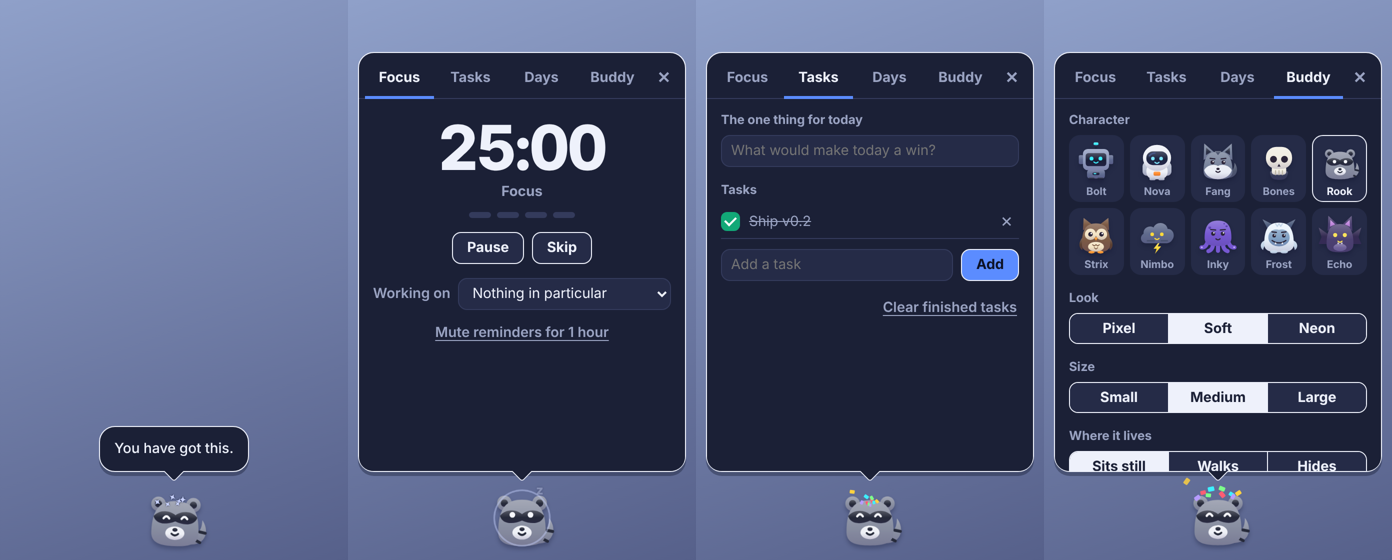
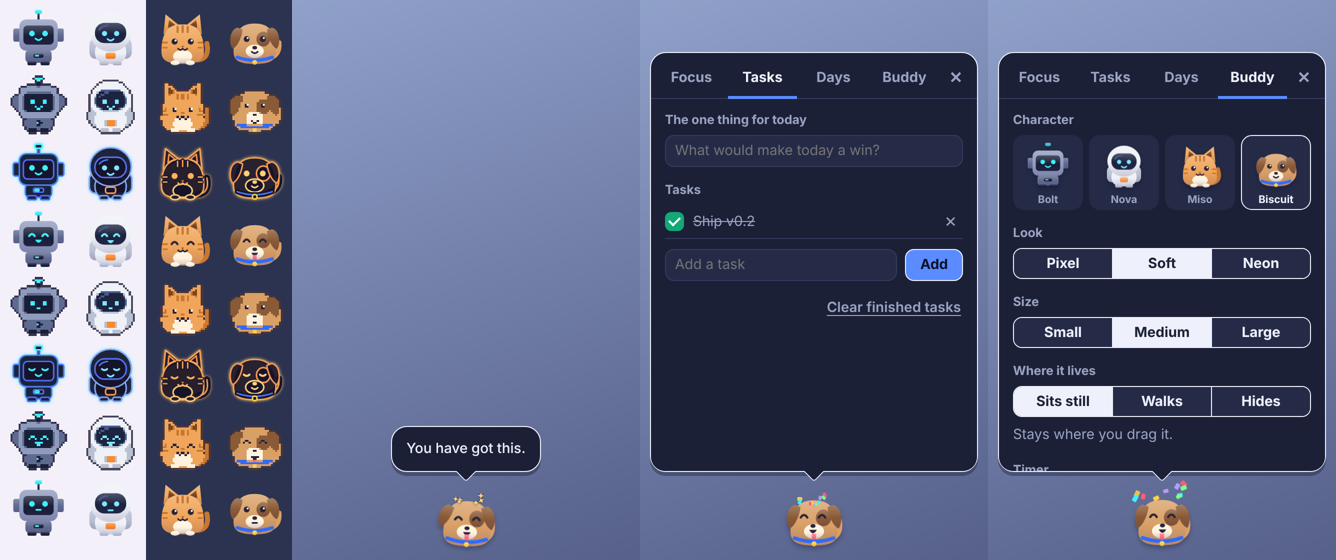
v0.3.0: Bolt, Nova, Miso the cat and Biscuit the dog, with moving parts and tricks
Claude-Session: https://claude.ai/code/session_01T8YRJT2CJDZMrmyAkM9yfG

diff --git a/src/characters.js b/src/characters.js
@@ -19,16 +19,17 @@
 
   const INK = '#2b2438', WHITE = '#ffffff', BLUSH = '#ff8fa6';
 
-  // shape = [path, fill, stroke, strokeWidth]; colours are palette keys or hex
+  // shape = [path, fill, stroke, strokeWidth, part]; colours are palette keys or hex.
+  // `part` (tail, earL, earR, flopL, flopR, lamp, tongue) makes that shape move on its own; see style.css.
   // optional `over` shapes are drawn on top of the face (teeth, visors...)
   const CHARS = [
     { id: 'bolt', name: 'Bolt', kind: 'robot', glow: '#3df0ff',
       pal: { a: '#8f9bbd', b: '#5f6a90', c: '#3df0ff', d: '#1a1f38' },
       face: { x: [25.5, 38.5], y: 27, r: 2.8, my: 32, mouth: 'smile', ink: 'c', brow: false },
       body: [
-        [R(31, 6, 2, 8), 'd'], [R(28.5, 3.5, 7, 4, 1.5), 'c'],
+        [R(31, 6, 2, 8), 'd'], [R(28.5, 3.5, 7, 4, 1.5), 'c', null, 0, 'lamp'],
         [R(7, 22, 7, 13, 2), 'b'], [R(50, 22, 7, 13, 2), 'b'],
-        [R(19, 43, 26, 13, 4), 'b'], [R(27, 47, 10, 4, 1.5), 'd'], [R(28.5, 48.2, 4, 1.6, 0.8), 'c'],
+        [R(19, 43, 26, 13, 4), 'b'], [R(27, 47, 10, 4, 1.5), 'd'], [R(28.5, 48.2, 4, 1.6, 0.8), 'c', null, 0, 'lamp'],
         [R(21, 54.5, 9, 4, 1.5), 'd'], [R(34, 54.5, 9, 4, 1.5), 'd'],
         [R(13, 13, 38, 31, 7), 'a'], [R(17, 19, 30, 19, 4), 'd'],
       ] },
@@ -38,98 +39,38 @@
       body: [
         [R(11, 32, 42, 20, 6), 'b'],
         [D(32, 34, 15.5, 57), 'a'],
-        [R(27, 46, 10, 6, 2), 'c'],
+        [R(27, 46, 10, 6, 2), 'c', null, 0, 'lamp'],
         [R(21, 54.5, 9, 4, 2), 'b'], [R(34, 54.5, 9, 4, 2), 'b'],
         [E(32, 26, 20.5, 19), 'a'],
         [R(16.5, 16.5, 31, 20, 9.5), 'd'],
         ['M21,23q2.5,-3.5 8,-4', null, 'f', 2],
       ] },
-    { id: 'fang', name: 'Fang', kind: 'wolf', glow: '#9fc4ff',
-      pal: { a: '#76819a', b: '#4d566e', d: '#2c3145', w: '#e8ecf4' },
-      face: { x: [24, 40], y: 32.5, r: 2.8, my: 45.5, mouth: 'smile', nose: 42 },
+    { id: 'miso', name: 'Miso', kind: 'cat', glow: '#ffb45c',
+      pal: { a: '#f0a55a', b: '#c9772f', d: '#7a4520', w: '#fff3df' },
+      face: { x: [24, 40], y: 35, r: 3, my: 42, mouth: 'cat', brow: false },
       body: [
-        ['M46,55C60,55 63,42 56,33C56,43 52,46 45,47Z', 'b'],
-        ['M11,29L12,5L29,20Z', 'a'], ['M53,29L52,5L35,20Z', 'a'],
-        ['M14.5,22L14.8,11L22,17.5Z', 'd'], ['M49.5,22L49.2,11L42,17.5Z', 'd'],
+        ['M47,53q12,-1 9,-16', null, 'b', 5, 'tail'],
+        ['M13,28L15,8L30,20Z', 'a', null, 0, 'earL'], ['M51,28L49,8L34,20Z', 'a', null, 0, 'earR'],
+        ['M17.5,21.5L18.5,13.5L24.5,18.5Z', 'd', null, 0, 'earL'], ['M46.5,21.5L45.5,13.5L39.5,18.5Z', 'd', null, 0, 'earR'],
+        [D(32, 18, 21, 57), 'a'],
+        ['M27,20.5v5M32,19.5v6M37,20.5v5', null, 'b', 2.2],
+        ['M12.5,36h4M12.8,41h3.6M51.5,36h-4M51.2,41h-3.6', null, 'b', 1.8],
+        [E(32, 49.5, 9.5, 6.5), 'w'],
+        [E(24.5, 56, 4.5, 2.4), 'w'], [E(39.5, 56, 4.5, 2.4), 'w'],
+      ],
+      over: [['M30.6,39.2h2.8l-1.4,1.8Z', 'd']] },
+    { id: 'biscuit', name: 'Biscuit', kind: 'dog', glow: '#ffd27a',
+      pal: { a: '#d9a066', b: '#8a5a36', c: '#2f6bff', e: '#ffd23f', w: '#fff3df', t: '#ff6b81' },
+      face: { x: [24, 40], y: 32.5, r: 2.9, my: 45, mouth: 'smile', nose: 41, brow: false },
+      body: [
+        ['M47,51q10,-3 9,-15', null, 'a', 5, 'tail'],
         [D(32, 17, 21, 57), 'a'],
-        ['M32,22L27,16h10Z', 'b'],
-        ['M32,38C26,34 15,37 12,44C15,54 25,57 32,57C39,57 49,54 52,44C49,37 38,34 32,38Z', 'w'],
-      ] },
-    { id: 'bones', name: 'Bones', kind: 'skull', glow: '#d8fff2',
-      pal: { a: '#f1ede2', b: '#353a58', d: '#b9b3a2' },
-      face: { x: [24, 40], y: 28, r: 5, my: 40, mouth: 'none', hl: false, brow: false },
-      body: [
-        [D(32, 44, 13, 58), 'b'],
-        [R(21.5, 38, 21, 12.5, 4), 'a'],
-        [R(13, 10, 38, 32, 15), 'a'],
-        ['M27,44.5v6M32,44.5v6M37,44.5v6', null, 'd', 1.5],
+        [E(40.5, 32.5, 6.8, 7.4), 'b'],
+        [E(32, 44.5, 9, 6.5), 'w'],
+        ['M14.6,50.5Q32,56.5 49.4,50.5', null, 'c', 3.2], [E(32, 55.6, 2.3), 'e'],
+        ['M15,21C7,23 6,36 10,42C15,40 19,31 20,23Z', 'b', null, 0, 'flopL'], ['M49,21C57,23 58,36 54,42C49,40 45,31 44,23Z', 'b', null, 0, 'flopR'],
       ],
-      over: [['M32,34.5l-2.3,4.2h4.6Z', 'ink']] },
-    { id: 'rook', name: 'Rook', kind: 'raccoon', glow: '#c8d2ff',
-      pal: { a: '#8a90a2', b: '#646a7e', d: '#262a3a', w: '#eef0f6', e: '#f6f7fb' },
-      face: { x: [24, 40], y: 31.5, r: 2.5, my: 46, mouth: 'smile', nose: 42.5, ink: 'e', brow: false },
-      body: [
-        ['M46,55C60,55 63,42 56,33C56,43 52,46 45,47Z', 'a'], ['M49.5,50.5l5,2.5M54,43.5l5,1', null, 'd', 2.6],
-        [E(16.5, 20, 6.5), 'a'], [E(47.5, 20, 6.5), 'a'], [E(16.5, 20, 3.2), 'd'], [E(47.5, 20, 3.2), 'd'],
-        [D(32, 17, 21, 57), 'a'],
-        ['M12.5,31C18,24.5 27,25.5 32,29.5C37,25.5 46,24.5 51.5,31C49,38.5 40,38.5 32,35C24,38.5 15,38.5 12.5,31Z', 'd'],
-        [E(32, 45.5, 8.5, 6), 'w'],
-      ],
-      over: [[E(32, 42.5, 2.3, 1.7), 'd'], ['M29,46q3,3 6,0', null, 'd', 1.7]] },
-    { id: 'strix', name: 'Strix', kind: 'owl', glow: '#ffb45c',
-      pal: { a: '#7d5b45', b: '#5a3f30', c: '#ff9a2e', w: '#f4e4c4' },
-      face: { x: [24, 40], y: 31, r: 3.3, my: 40, mouth: 'none', brow: false },
-      body: [
-        ['M12,36C6,43 7,51 12,54C13,47 15,42 17,39Z', 'b'], ['M52,36C58,43 57,51 52,54C51,47 49,42 47,39Z', 'b'],
-        ['M13,25L14,7L28,18Z', 'a'], ['M51,25L50,7L36,18Z', 'a'],
-        [D(32, 15, 20.5, 57), 'a'],
-        [E(32, 49, 11.5, 7), 'w'], ['M27,46l2.5,2l2.5,-2l2.5,2l2.5,-2M29.5,50.5l2.5,2l2.5,-2', null, 'a', 1.2],
-        [E(24, 31, 8.2), 'w'], [E(40, 31, 8.2), 'w'],
-        [E(25.5, 57, 4.5, 2), 'c'], [E(38.5, 57, 4.5, 2), 'c'],
-      ],
-      over: [['M29.3,35.5h5.4l-2.7,5Z', 'c']] },
-    { id: 'nimbo', name: 'Nimbo', kind: 'storm cloud', glow: '#ffe45c', float: true,
-      pal: { a: '#5f6a8c', b: '#47506e', c: '#ffd93b' },
-      face: { x: [25, 39], y: 31, r: 2.6, my: 37, mouth: 'smile', ink: 'c', brow: false },
-      body: [
-        ['M34,43l-7,9h4.5l-2.5,7.5l9,-11h-5l3,-5.5Z', 'c'],
-        ['M16,44C8,44 6,34 12.5,30C11.5,22 20.5,17 27,21C31,11.5 45.5,12.5 47.5,23C55.5,23 59.5,33 53.5,40C51.5,43 48.5,44 45,44Z', 'a'],
-        ['M18,40.5h10M38,40.5h9', null, 'b', 2],
-      ] },
-    { id: 'inky', name: 'Inky', kind: 'octopus', glow: '#b79bff',
-      pal: { a: '#7658d1', b: '#5a3fb0', w: '#c9b8ff' },
-      face: { x: [25, 39], y: 30, r: 3, my: 37.5, mouth: 'smile' },
-      body: [
-        ['M17,42q-3,9 -9,8', null, 'a', 6], ['M47,42q3,9 9,8', null, 'a', 6],
-        ['M25,45q-1,9 -7,10.5', null, 'a', 6], ['M39,45q1,9 7,10.5', null, 'a', 6],
-        ['M32,46v9', null, 'a', 6],
-        [D(32, 11, 19.5, 48), 'a'],
-        [E(20, 21, 2), 'b'], [E(44.5, 19, 1.6), 'b'], [E(41, 15.5, 1.1), 'b'],
-        [E(8.5, 50, 1.3), 'w'], [E(55.5, 50, 1.3), 'w'],
-      ] },
-    { id: 'frost', name: 'Frost', kind: 'yeti', glow: '#9fe3ff',
-      pal: { a: '#e9f2fb', b: '#c3d5e8', f: '#7f9fc2', h: '#51607f' },
-      face: { x: [25, 39], y: 33, r: 2.6, my: 41, mouth: 'wide' },
-      body: [
-        ['M16,24L8,9L24,17Z', 'h'], ['M48,24L56,9L40,17Z', 'h'],
-        ['M11,40C4,43 4,51 9,54C10,48 12,46 15,44Z', 'b'], ['M53,40C60,43 60,51 55,54C54,48 52,46 49,44Z', 'b'],
-        [D(32, 14, 21.5, 57), 'a'],
-        ['M32,24.5C24,22 16.5,27 16.5,35.5C16.5,44 24,48.5 32,48.5C40,48.5 47.5,44 47.5,35.5C47.5,27 40,22 32,24.5Z', 'f'],
-        ['M27,15.5l2.5,4l2.5,-4l2.5,4l2.5,-4', null, 'b', 1.6],
-        [E(24.5, 56.5, 5.5, 2.3), 'b'], [E(39.5, 56.5, 5.5, 2.3), 'b'],
-      ],
-      over: [['M25.5,45.4l1.6,-3.2l1.6,3.2Z', 'white'], ['M35.3,45.4l1.6,-3.2l1.6,3.2Z', 'white']] },
-    { id: 'echo', name: 'Echo', kind: 'bat', glow: '#d59bff', float: true,
-      pal: { a: '#4b4070', b: '#342b52', c: '#c58be0', w: '#6f629a', e: '#ffe45c' },
-      face: { x: [25, 39], y: 32, r: 3, my: 41, mouth: 'smile', ink: 'e', brow: false },
-      body: [
-        ['M15,31L1,21L5,35L1,45L15,45Z', 'b'], ['M49,31L63,21L59,35L63,45L49,45Z', 'b'],
-        ['M14,26L15,4L30,18Z', 'a'], ['M50,26L49,4L34,18Z', 'a'],
-        ['M17.5,20L18,10L25,16.5Z', 'c'], ['M46.5,20L46,10L39,16.5Z', 'c'],
-        [D(32, 16, 19.5, 57), 'a'],
-        [E(32, 50, 9.5, 5.5), 'w'],
-      ],
-      over: [['M28,43.3l1.3,2.6l1.3,-2.6Z', 'white'], ['M33.4,43.3l1.3,2.6l1.3,-2.6Z', 'white']] },
+      over: [['M30,46.6h4v3.2a2,2 0 0 1 -4,0Z', 't', null, 0, 'tongue']] },
   ];
 
   // ---- face: drawn by the engine so every figurine shares the same expressions
@@ -174,8 +115,8 @@
   }
 
   function shapesFor(ch, expr) {
-    const body = ch.body.map(([d, fill, stroke, w]) => ({ d, fill, stroke, w }));
-    const over = (ch.over || []).map(([d, fill, stroke, w]) => ({ d, fill, stroke, w, over: true }));
+    const body = ch.body.map(([d, fill, stroke, w, part]) => ({ d, fill, stroke, w, part }));
+    const over = (ch.over || []).map(([d, fill, stroke, w, part]) => ({ d, fill, stroke, w, part, over: true }));
     return body.concat(faceShapes(ch, expr), over);
   }
 
@@ -202,22 +143,24 @@
     const seen = new Set();
     for (const s of shapes) {
       if (!!s.face !== inFace) { body += s.face ? '<g class="f">' : '</g>'; inFace = !!s.face; }
+      let piece = '';
+      const flush = () => { body += s.part ? piece.replaceAll('<path ', `<path class="pt-${s.part}" `) : piece; };
       const fill = col(ch, s.fill), stroke = col(ch, s.stroke);
       if (look === 'neon') {
         if (s.hl || s.soft) continue;
         if (s.face) {
           const c = ch.glow;
-          body += fill
+          piece += fill
             ? `<path d="${s.d}" fill="${c}"/>`
             : `<path d="${s.d}" fill="none" stroke="${c}" stroke-width="${s.w}" stroke-linecap="round" stroke-linejoin="round"/>`;
         } else if (fill && s.over) {
-          body += `<path d="${s.d}" fill="${neonize(fill, ch.glow)}"/>`;
+          piece += `<path d="${s.d}" fill="${neonize(fill, ch.glow)}"/>`;
         } else if (fill) {
-          body += `<path d="${s.d}" fill="#17142a" fill-opacity=".92" stroke="${neonize(fill, ch.glow)}" stroke-width="1.5" stroke-linejoin="round"/>`;
+          piece += `<path d="${s.d}" fill="#17142a" fill-opacity=".92" stroke="${neonize(fill, ch.glow)}" stroke-width="1.5" stroke-linejoin="round"/>`;
         } else {
-          body += `<path d="${s.d}" fill="none" stroke="#17142a" stroke-width="${s.w + 1.6}" stroke-linecap="round"/><path d="${s.d}" fill="none" stroke="${neonize(stroke, ch.glow)}" stroke-width="1.5" stroke-linecap="round"/>`;
+          piece += `<path d="${s.d}" fill="none" stroke="#17142a" stroke-width="${s.w + 1.6}" stroke-linecap="round"/><path d="${s.d}" fill="none" stroke="${neonize(stroke, ch.glow)}" stroke-width="1.5" stroke-linecap="round"/>`;
         }
-        continue;
+        flush(); continue;
       }
       const op = s.o ? ` opacity="${s.o}"` : '';
       if (fill) {
@@ -230,10 +173,11 @@
           }
           paint = `url(#${id})`;
         }
-        body += `<path d="${s.d}" fill="${paint}"${op}/>`;
+        piece += `<path d="${s.d}" fill="${paint}"${op}/>`;
       } else {
-        body += `<path d="${s.d}" fill="none" stroke="${stroke}" stroke-width="${s.w}" stroke-linecap="round" stroke-linejoin="round"${op}/>`;
+        piece += `<path d="${s.d}" fill="none" stroke="${stroke}" stroke-width="${s.w}" stroke-linecap="round" stroke-linejoin="round"${op}/>`;
       }
+      flush();
     }
     if (inFace) body += '</g>';
     return `<svg viewBox="0 0 64 64" xmlns="http://www.w3.org/2000/svg" aria-hidden="true"><defs>${defs}</defs>${body}</svg>`;
@@ -251,7 +195,8 @@
     ctx.setTransform(1, 0, 0, 1, 0, 0); ctx.clearRect(0, 0, N, N); ctx.scale(N / 64, N / 64);
     ctx.lineCap = 'round'; ctx.lineJoin = 'round';
     const pal = [];
-    for (const s of ch.body.concat(ch.over || []).map(([d, fill, stroke, w]) => ({ d, fill, stroke, w }))) {
+    for (const s of ch.body.concat(ch.over || []).map(([d, fill, stroke, w, part]) => ({ d, fill, stroke, w, part }))) {
+      if (s.part === 'tongue' && expr !== 'happy' && expr !== 'wow') continue;
       const p = new Path2D(s.d), c = col(ch, s.fill) || col(ch, s.stroke);
       if (!pal.includes(c)) pal.push(c);
       if (s.fill) { ctx.fillStyle = c; ctx.fill(p); }
@@ -317,9 +262,15 @@
       el.classList.toggle('floats', !!ch.float);
       if (cur.look === 'pixel') {
         let c = el.querySelector('canvas');
-        if (!c) { el.innerHTML = '<canvas width="32" height="32"></canvas>'; c = el.firstChild; }
+        if (!c) { el.innerHTML = '<canvas width="32" height="32"></canvas>'; c = el.firstChild; el.dataset.key = ''; }
         c.getContext('2d').putImageData(pixelData(ch, cur.expr), 0, 0);
-      } else el.innerHTML = svg(ch, cur.expr, cur.look);
+      } else {
+        const html = svg(ch, cur.expr, cur.look), g = el.querySelector('g.f'), key = cur.char + cur.look;
+        const m = /<g class="f">([\s\S]*?)<\/g>/.exec(html);
+        if (g && m && el.dataset.key === key) g.innerHTML = m[1]; else el.innerHTML = html;
+        el.dataset.key = key;
+      }
+      el.dataset.expr = cur.expr;
     }
     draw();
     return { set(p) { let ch = false; for (const k in p) if (cur[k] !== p[k]) { cur[k] = p[k]; ch = true; } if (ch) draw(); }, get: () => cur };

diff --git a/src/style.css b/src/style.css
@@ -36,6 +36,26 @@ canvas { image-rendering: pixelated; }
 
 /* eyes follow the pointer and glance around */
 #fig svg .f { transform: translate(calc(var(--lx, 0) * 1px), calc(var(--ly, 0) * 1px)); transition: transform .2s ease-out; }
+/* parts that move on their own: tails, ears, lamps, tongue */
+svg [class^="pt-"] { transform-box: fill-box; }
+.pt-tail { transform-origin: 0% 100%; animation: wag 1.5s ease-in-out infinite alternate; }
+#pet:hover .pt-tail, [data-expr="happy"] .pt-tail, [data-expr="wow"] .pt-tail { animation-duration: .2s; }
+.pt-earL { transform-origin: 85% 100%; animation: twitch 5.5s ease-in-out infinite; }
+.pt-earR { transform-origin: 15% 100%; animation: twitch 7s ease-in-out 1.3s infinite reverse; }
+.pt-flopL { transform-origin: 90% 5%; animation: flop 3.2s ease-in-out infinite; }
+.pt-flopR { transform-origin: 10% 5%; animation: flop 3.2s ease-in-out .2s infinite reverse; }
+#pet:hover .pt-flopL, #pet:hover .pt-flopR { animation-duration: .5s; }
+.pt-lamp { animation: lamp 1.8s ease-in-out infinite; }
+[data-expr="focus"] .pt-lamp { animation-duration: .7s; }
+.pt-tongue { opacity: 0; transform-origin: 50% 0; }
+[data-expr="happy"] .pt-tongue, [data-expr="wow"] .pt-tongue { opacity: 1; animation: pant .22s ease-in-out infinite alternate; }
+@keyframes wag { from { transform: rotate(-9deg); } to { transform: rotate(14deg); } }
+@keyframes twitch { 0%, 86%, 100% { transform: none; } 90% { transform: rotate(-13deg); } 95% { transform: rotate(5deg); } }
+@keyframes flop { 0%, 70%, 100% { transform: none; } 80% { transform: rotate(9deg); } 90% { transform: rotate(-4deg); } }
+@keyframes lamp { 50% { opacity: .3; } }
+@keyframes pant { to { transform: scaleY(1.3); } }
+#fig.a-chase { animation: chase 1s ease-in-out; }
+@keyframes chase { 0% { transform: rotate(0); } 45% { transform: rotate(-380deg) translateY(-4px); } 90% { transform: rotate(-720deg); } 100% { transform: rotate(-720deg); } }
 /* reactions (one at a time, set from app.js) */
 #fig.a-perk { animation: perk .36s ease-out; }
 #fig.a-squash { animation: squash .12s ease-out forwards; }
@@ -77,7 +97,7 @@ canvas { image-rendering: pixelated; }
 @keyframes fly { 0% { opacity: 1; transform: translate(-50%, 0) scale(.4); } 70% { opacity: 1; } 100% { opacity: 0; transform: translate(calc(-50% + var(--dx)), var(--dy)) rotate(var(--r)) scale(1); } }
 @keyframes puff { 0% { opacity: .85; transform: translate(-50%, 0) scale(.5); } 100% { opacity: 0; transform: translate(calc(-50% + var(--dx)), -4px) scale(1.5); } }
 @keyframes zzz { 0% { opacity: 0; transform: translate(6px, 0) scale(.6); } 25% { opacity: 1; } 100% { opacity: 0; transform: translate(16px, -22px) scale(1.15); } }
-@media (prefers-reduced-motion: reduce) { #fig[class] { animation: none !important; } #fig, #fig.floats, #pet.walk #fig, #pet.hop #fig { animation: none; } }
+@media (prefers-reduced-motion: reduce) { #fig[class], svg [class^="pt-"] { animation: none !important; } #fig, #fig.floats, #pet.walk #fig, #pet.hop #fig { animation: none; } }
 
 #pill { flex: none; margin-top: 2px; height: 22px; padding: 0 10px; border: 0; border-radius: 11px; background: var(--ink); color: var(--paper);
   font-weight: 700; font-size: 12.5px; font-variant-numeric: tabular-nums; letter-spacing: .02em; }
@@ -152,10 +172,10 @@ input[type="checkbox"]:checked::after { content: ""; width: 9px; height: 5px; bo
 .tally b { font-variant-numeric: tabular-nums; }
 
 /* buddy tab */
-.roster { display: grid; grid-template-columns: repeat(5, 1fr); gap: 6px; }
+.roster { display: grid; grid-template-columns: repeat(4, 1fr); gap: 6px; }
 .roster button { border: 1.5px solid transparent; background: var(--raise); border-radius: 11px; padding: 4px 2px 3px; font-size: 10.5px; font-weight: 700; color: var(--muted); }
 .roster button[aria-pressed="true"] { border-color: var(--ink); color: var(--ink); }
-.mini { width: 44px; height: 44px; margin: 0 auto 1px; pointer-events: none; }
+.mini { width: 52px; height: 52px; margin: 0 auto 1px; pointer-events: none; }
 .seg { display: flex; border: 1.5px solid var(--ink); border-radius: 9px; overflow: hidden; }
 .seg button { flex: 1; border: 0; background: var(--raise); padding: 6px 0; font-weight: 700; border-left: 1.5px solid var(--ink); }
 .seg button:first-child { border-left: 0; }

diff --git a/src/app.js b/src/app.js
@@ -16,6 +16,8 @@
   };
   const SIZES = { s: 52, m: 72, l: 96 };
   const CHEERS = ['Done. Next.', 'One down.', 'Clean work.', 'That is how it is done.', 'Knocked out.'];
+  const VOICE = { bolt: ['Beep boop.', 'Systems green.'], nova: ['Houston, we are focused.', 'Zero gravity, zero excuses.'], miso: ['Purr.', 'Mrrp?'], biscuit: ['Woof!', 'Throw the ball. Then do the task.'] };
+  const TRICK = { bolt: 'flip', nova: 'spin', miso: 'stretch', biscuit: 'chase' };
   const PATS = ['Locked in?', 'Pick one task and start the timer.', 'Small steps still count.', 'You have got this.', 'What is the next move?'];
 
   // ---- state
@@ -323,7 +325,7 @@
     dnd: () => { S.dnd = now() < S.dnd ? 0 : now() + 60 * MIN; },
     del: (v, el) => { S.todos = S.todos.filter((x) => x.id !== el.dataset.id); },
     clear: () => { S.todos = S.todos.filter((x) => !x.done); },
-    char: (v) => { S.char = v; face(); },
+    char: (v) => { S.char = v; face(); anim('boing', 460); burst('star', 5); },
     look: (v) => { S.look = v; face(); },
     size: (v) => { S.size = v; ui.stageKey = ''; },
     mode: (v) => setMode(v),
@@ -364,7 +366,7 @@
   // ---- the figurine itself: click to open, drag to move, right-click for a pat
   let down = null, drag = false, clicks = [];
   pet.addEventListener('mousedown', (e) => { if (e.button === 0) { down = { x: e.screenX, y: e.screenY, moved: false }; anim('squash'); } });
-  pet.addEventListener('mouseenter', () => { if (!drag && !down && !walk.on) anim('perk', 360); });
+  pet.addEventListener('mouseenter', () => { if (drag || down || walk.on) return; anim('perk', 360); if (S.char === 'biscuit' && baseExpr() === 'idle') flash('happy', 1400); if (S.char === 'miso' && baseExpr() === 'idle') flash('sleep', 700); });
   function landed() { drag = false; down = null; ui.flashUntil = 0; face(); anim('land', 480); burst('dust', 4); }
   window.addEventListener('mousemove', (e) => {
     if (drag && !e.buttons) landed();
@@ -386,7 +388,7 @@
     if (ui.bubble) closeBubble(); else ui.panel ? closePanel() : openPanel();
   });
   pet.addEventListener('keydown', (e) => { if (e.key === 'Enter' || e.key === ' ') { e.preventDefault(); ui.panel ? closePanel() : openPanel(); } });
-  pet.addEventListener('contextmenu', (e) => { e.preventDefault(); if (!ui.panel && !ui.bubble) { say(pick(PATS), { ttl: 4000, expr: 'happy' }); const a = pick(['flip', 'spin', 'wiggle']); anim(a, 800); burst('star', 6); } });
+  pet.addEventListener('contextmenu', (e) => { e.preventDefault(); if (!ui.panel && !ui.bubble) { say(pick((VOICE[S.char] || []).concat(PATS)), { ttl: 4000, expr: 'happy' }); anim(pick([TRICK[S.char] || 'flip', TRICK[S.char] || 'flip', 'wiggle']), 1000); burst('star', 6); } });
   document.addEventListener('contextmenu', (e) => e.preventDefault());
   pill.addEventListener('click', pause);
 

diff --git a/README.md b/README.md
@@ -2,7 +2,7 @@
 
 A tiny figurine that lives on your desktop and keeps you on track. Windows, macOS and Linux.
 
-![The ten characters in their three looks](docs/characters.png)
+![The characters in their three looks](docs/characters.png)
 
 ## What it does
 
@@ -11,7 +11,7 @@ A tiny figurine that lives on your desktop and keeps you on track. Windows, macO
 - **Reminders** – water, stretch, eye rest, posture. They wait until your focus session ends.
 - **Days** – streak, focus minutes for the last 7 days, and today's tally.
 - **Morning check-in and evening recap.**
-- **10 characters × 3 looks** – Bolt, Nova, Fang, Bones, Rook, Strix, Nimbo, Inky, Frost, Echo, each in pixel, soft or neon.
+- **4 characters × 3 looks** – Bolt the robot, Nova the astronaut, Miso the cat and Biscuit the dog, each in pixel, soft or neon. Tails wag, ears twitch, lamps blink.
 - **3 ways to live on screen** – sits where you drag it, walks along the bottom of the screen, or hides in the tray and pops out only for reminders.
 
 Click the figurine to open the panel. Drag it to move it. Right-click it for a trick. Its eyes follow your pointer, and it reacts to hovers, clicks, drops, finished tasks and focus sessions.
@@ -52,7 +52,7 @@ The builds are not code-signed, so Windows SmartScreen and macOS Gatekeeper will
 ## Layout
 
 ```
-src/characters.js   the ten figurines and the three renderers
+src/characters.js   the figurines and the three renderers
 src/app.js          timer, tasks, reminders, stats, panel
 src/shell.js        bridge to the desktop shell (no-ops in a browser)
 src/style.css       all styling

diff --git a/CONTRIBUTING.md b/CONTRIBUTING.md
@@ -11,6 +11,7 @@ Characters live in `src/characters.js` in the `CHARS` list. You describe a figur
 4. `face` says where the eyes (`x`, `y`, radius `r`) and mouth (`my`) go. Expressions (blink, happy, focus, sleep) come for free.
    Keep it left-right symmetric around x = 32.
 5. `glow` is the neon colour.
+6. Optional: give a shape a fifth value (`tail`, `earL`, `earR`, `flopL`, `flopR`, `lamp`, `tongue`) and it moves on its own.
 
 Open `src/index.html` in a browser, go to Buddy, and check your character in Pixel, Soft and Neon.
 
